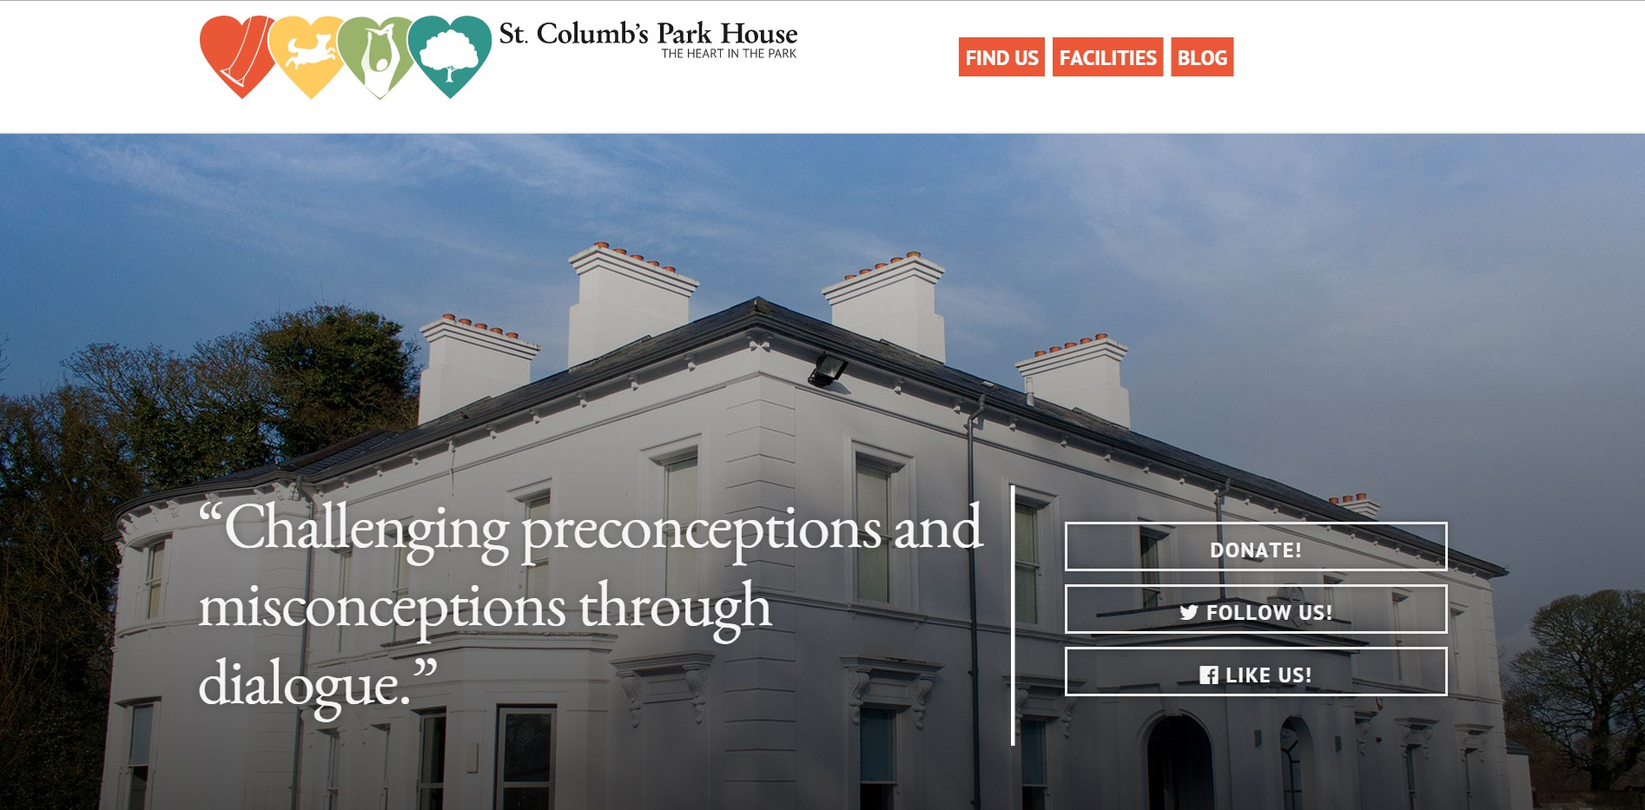
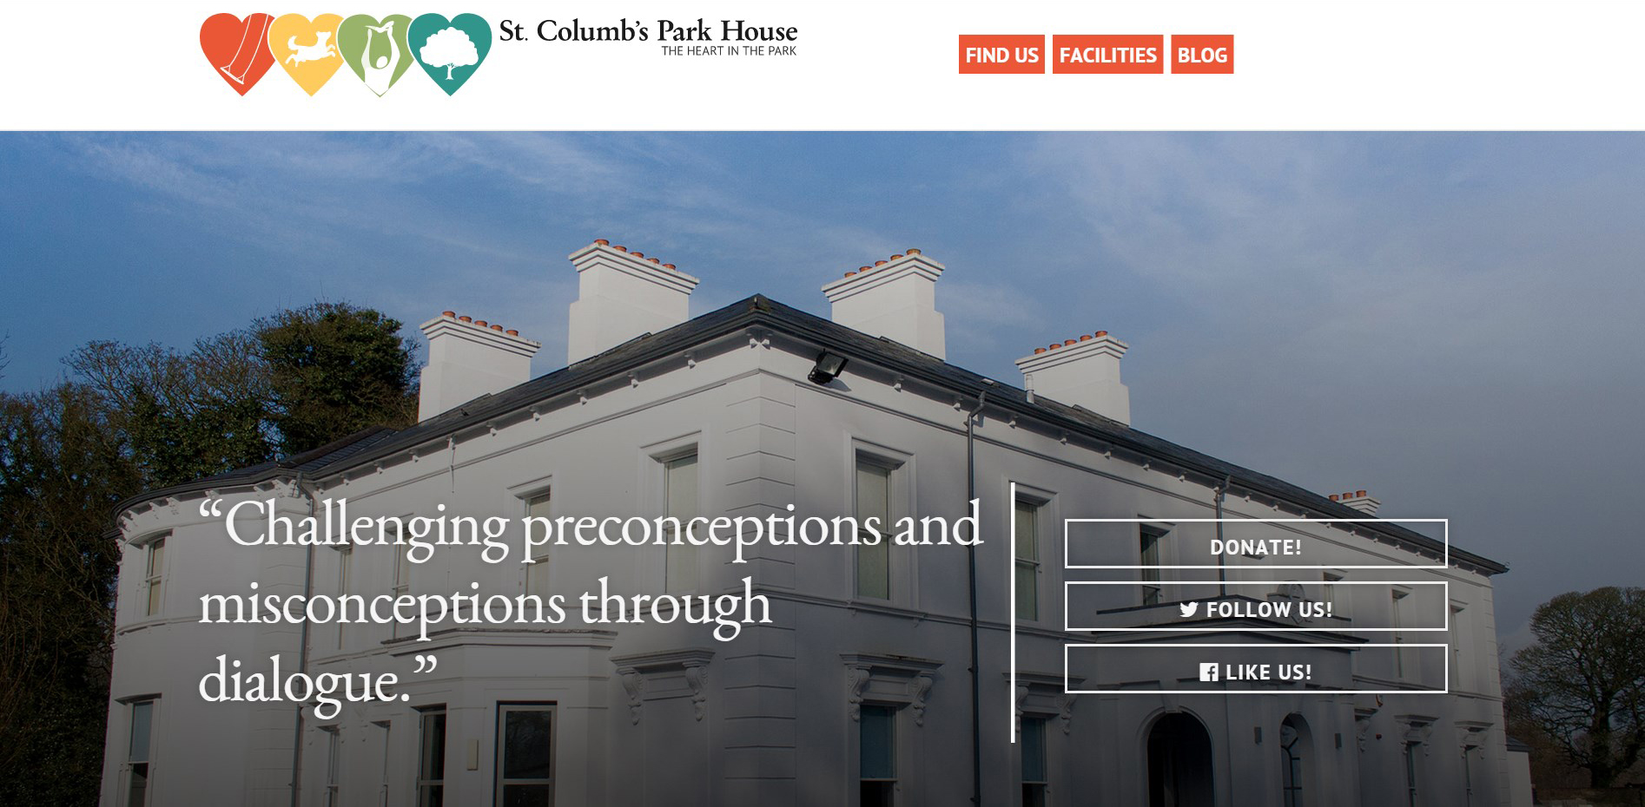
Site updated: 2015-07-10 17:27:44

diff --git a/index.html b/index.html
@@ -1,1 +1,1 @@
-<!DOCTYPE html><html lang="English"><head><meta name="viewport" content="width=device-width, initial-scale=1.0"><meta name="description" content=""><meta name="author" content="Ryan Park"><title>Digital Portfolio [ Ryan Park ]</title><link rel="stylesheet" href="/css/style.css"><link rel="icon" href="/img/favicon.png"><link rel="stylesheet" href="//maxcdn.bootstrapcdn.com/font-awesome/4.3.0/css/font-awesome.min.css"></head><body><div id="menu-outer"><div id="title"><h1 class="name">Ryan Park</h1><h2 class="sub">Front End Web Developer based in Coleraine, Northern Ireland.</h2></div><div id="nav" class="menu-inner"><a href="/">Home</a><a href="/archives">Archives</a></div></div><div id="content-outer"><div id="content-inner"><div id="details" class="container"><div class="four columns info"><i class="fa fa-user"></i><h1>About</h1><p>I am a recent graduate who specializes in bespoke solutions for front end web development, creating cutting-edge responsive experiences for a range of devices.</p></div><div class="four columns info"><i class="fa fa-certificate"></i><h1>Qualifications</h1><p>Graduated with first class honors in Interactive Media Arts, Adobe Certified Associate for a range of Adobe software, recipent of</p></div><div class="four columns info"><i class="fa fa-code"></i><h1>Skills</h1><p>HTML5, CSS3, Javascript, jQuery, git and tinkerer in node.js, php, and other backend technologies.</p></div></div><div id="recent-posts" class="row"><div class="recent-post-item four columns"><div id="post" style="background: url('img/Taste.jpg');"><div class="details"><a href="/2015/06/28/Taste/">Taste</a><time datetime="2015-06-28T07:19:17.000Z">2015-06-28</time></div></div></div><div class="recent-post-item four columns"><div id="post" style="background: url('img/St. Columbs Park House.jpg');"><div class="details"><a href="/2015/06/22/St-Columbs-Park-House-1/">St. Columbs Park House</a><time datetime="2015-06-22T06:06:38.000Z">2015-06-22</time></div></div></div><div class="recent-post-item four columns"><div id="post" style="background: url('img/Hello World.jpg');"><div class="details"><a href="/2015/06/22/hello-world/">Hello World</a><time datetime="2015-06-22T03:54:09.323Z">2015-06-22</time></div></div></div></div><div id="index-pages"></div></div></div></body></html>
+<!DOCTYPE html><html lang="English"><head><meta name="viewport" content="width=device-width, initial-scale=1.0"><meta name="description" content=""><meta name="author" content="Ryan Park"><title>Digital Portfolio [ Ryan Park ]</title><link rel="stylesheet" href="/css/style.css"><link rel="icon" href="/img/favicon.png"><link rel="stylesheet" href="//maxcdn.bootstrapcdn.com/font-awesome/4.3.0/css/font-awesome.min.css"></head><body><div id="menu-outer"><div id="title"><h1 class="name">Ryan Park</h1><h2 class="sub">Front End Web Developer based in Coleraine, Northern Ireland.</h2></div><div id="nav" class="menu-inner"><a href="/">Home</a><a href="/archives">Work</a><a href="/contact">Contact</a></div></div><div id="content-outer"><div id="content-inner"><div id="details" class="u-full-width"><div class="container"><div class="row"><div class="four columns info"><i class="fa fa-user"></i><h1>About</h1><p>I am a recent graduate who specializes in bespoke solutions for front end web development, creating cutting-edge responsive experiences for a range of devices.</p></div><div class="four columns info"><i class="fa fa-certificate"></i><h1>Qualifications</h1><p>Graduated with first class honors in Interactive Media Arts, Adobe Certified Associate for a range of Adobe software.</p></div><div class="four columns info"><i class="fa fa-code"></i><h1>Skills</h1><p>HTML5, CSS3, Javascript, jQuery, git and tinkerer in node.js, php, and other backend technologies.</p></div></div></div></div><div id="recent-posts" class="row container"><h1>Recent Work</h1><div class="u-full-width"><div class="recent-post-item four columns"><a href="/2015/06/28/Taste/" id="article" style="background: url('img/Taste.jpg');"><div class="details"><h5>Taste</h5><time datetime="2015-06-28T07:19:17.000Z">2015-06-28</time></div></a></div><div class="recent-post-item four columns"><a href="/2015/06/22/St-Columbs-Park-House-1/" id="article" style="background: url('img/St. Columbs Park House.jpg');"><div class="details"><h5>St. Columbs Park House</h5><time datetime="2015-06-22T06:06:38.000Z">2015-06-22</time></div></a></div><div class="recent-post-item four columns"><a href="/2015/06/22/hello-world/" id="article" style="background: url('img/Hello World.jpg');"><div class="details"><h5>Hello World</h5><time datetime="2015-06-22T03:54:09.323Z">2015-06-22</time></div></a></div></div></div><div class="container"><div class="row"><h1>Contact</h1></div><div class="row"><div class="six columns"><p>You can contact me using the form to the right, alternatively I'm available via social media </p></div><div class="six columns"><form action="//formspree.io/parky.fp@gmail.com" method="POST"><label>Name:</label><input type="text" name="name" placeholder="Your Name"><label>Email Address:</label><input type="email" name="_replyto" placeholder="Your Email"><label>Message:</label><textarea name="message" placeholder="Your Message" class="u-full-width"></textarea><input type="submit" value="Send"></form></div></div></div></div></div><div id="footer"><i class="fa fa-github"></i><i class="fa fa-twitter"></i><i class="fa fa-user"></i></div></body></html>

diff --git a/2015/06/22/hello-world/index.html b/2015/06/22/hello-world/index.html
@@ -1,4 +1,4 @@
-<!DOCTYPE html><html lang="English"><head><meta name="viewport" content="width=device-width, initial-scale=1.0"><meta name="description" content=""><meta name="author" content="Ryan Park"><title>Hello World [ Ryan Park ]</title><link rel="stylesheet" href="/css/style.css"><link rel="icon" href="/img/favicon.png"><link rel="stylesheet" href="//maxcdn.bootstrapcdn.com/font-awesome/4.3.0/css/font-awesome.min.css"></head><body><div id="menu-outer"><div id="title"><h1 class="name">Ryan Park</h1><h2 class="sub">Front End Web Developer based in Coleraine, Northern Ireland.</h2></div><div id="nav" class="menu-inner"><a href="/">Home</a><a href="/archives">Archives</a></div></div><div id="content-outer"><div id="content-inner"><article id="post"><h1>Hello World</h1><p>Welcome to <a href="http://hexo.io/" target="_blank" rel="external">Hexo</a>! This is your very first post. Check <a href="http://hexo.io/docs/" target="_blank" rel="external">documentation</a> for more info. If you get any problems when using Hexo, you can find the answer in <a href="http://hexo.io/docs/troubleshooting.html" target="_blank" rel="external">troubleshooting</a> or you can ask me on <a href="https://github.com/hexojs/hexo/issues" target="_blank" rel="external">GitHub</a>.</p>
+<!DOCTYPE html><html lang="English"><head><meta name="viewport" content="width=device-width, initial-scale=1.0"><meta name="description" content=""><meta name="author" content="Ryan Park"><title>Hello World [ Ryan Park ]</title><link rel="stylesheet" href="/css/style.css"><link rel="icon" href="/img/favicon.png"><link rel="stylesheet" href="//maxcdn.bootstrapcdn.com/font-awesome/4.3.0/css/font-awesome.min.css"></head><body><div id="menu-outer"><div id="title"><h1 class="name">Ryan Park</h1><h2 class="sub">Front End Web Developer based in Coleraine, Northern Ireland.</h2></div><div id="nav" class="menu-inner"><a href="/">Home</a><a href="/archives">Work</a><a href="/contact">Contact</a></div></div><div id="content-outer"><div id="content-inner"><div class="container"><article id="post"><h1>Hello World</h1><p>Welcome to <a href="http://hexo.io/" target="_blank" rel="external">Hexo</a>! This is your very first post. Check <a href="http://hexo.io/docs/" target="_blank" rel="external">documentation</a> for more info. If you get any problems when using Hexo, you can find the answer in <a href="http://hexo.io/docs/troubleshooting.html" target="_blank" rel="external">troubleshooting</a> or you can ask me on <a href="https://github.com/hexojs/hexo/issues" target="_blank" rel="external">GitHub</a>.</p>
 <h2 id="Quick_Start">Quick Start</h2><h3 id="Create_a_new_post">Create a new post</h3><figure class="highlight bash"><table><tr><td class="gutter"><pre><span class="line">1</span><br></pre></td><td class="code"><pre><span class="line">$ hexo new <span class="string">"My New Post"</span></span><br></pre></td></tr></table></figure>
 <p>More info: <a href="http://hexo.io/docs/writing.html" target="_blank" rel="external">Writing</a></p>
 <h3 id="Run_server">Run server</h3><figure class="highlight bash"><table><tr><td class="gutter"><pre><span class="line">1</span><br></pre></td><td class="code"><pre><span class="line">$ hexo server</span><br></pre></td></tr></table></figure>
@@ -7,4 +7,4 @@
 <p>More info: <a href="http://hexo.io/docs/generating.html" target="_blank" rel="external">Generating</a></p>
 <h3 id="Deploy_to_remote_sites">Deploy to remote sites</h3><figure class="highlight bash"><table><tr><td class="gutter"><pre><span class="line">1</span><br></pre></td><td class="code"><pre><span class="line">$ hexo deploy</span><br></pre></td></tr></table></figure>
 <p>More info: <a href="http://hexo.io/docs/deployment.html" target="_blank" rel="external">Deployment</a></p>
-</article><nav id="pagination"><a href="/2015/06/22/St-Columbs-Park-House-1/" class="prev">&larr; Prev</a></nav></div></div></body></html>
+</article><nav id="pagination"><a href="/2015/06/22/St-Columbs-Park-House-1/" class="prev">&larr; Prev</a></nav></div></div></div><div id="footer"><i class="fa fa-github"></i><i class="fa fa-twitter"></i><i class="fa fa-user"></i></div></body></html>

diff --git a/css/style.css b/css/style.css
@@ -161,8 +161,6 @@ a {
   color: #333;
   text-transform: uppercase;
   text-decoration: none;
-  border: 2px solid;
-  padding: 5px 10px 5px 10px;
   font-weight: 700; }
   a:hover {
     color: #737373; }
@@ -188,30 +186,27 @@ a {
 
 input[type="submit"], input[type="reset"], input[type="button"] {
   display: inline-block;
-  height: 38px;
-  padding: 0 30px;
   color: #555555;
   text-align: center;
-  font-size: 11px;
-  font-weight: 600;
-  line-height: 38px;
-  letter-spacing: .1rem;
   text-transform: uppercase;
   text-decoration: none;
   white-space: nowrap;
   background-color: transparent;
-  border-radius: 4px;
-  border: 1px solid #bbb;
   cursor: pointer;
-  box-sizing: border-box; }
+  box-sizing: border-box;
+  font-size: 18px;
+  font-family: 'Open Sans', sans-serif;
+  font-weight: 700;
+  border: 2px solid;
+  padding: 5px 10px 5px 10px; }
 
 .button:hover, button:hover {
-  color: #333;
+  color: #888888;
   border-color: #888888;
   outline: 0; }
 
 input[type="submit"]:hover, input[type="reset"]:hover, input[type="button"]:hover {
-  color: #333;
+  color: #888888;
   border-color: #888888;
   outline: 0; }
 
@@ -368,7 +363,8 @@ pre, blockquote, dl, figure, table, p, ul, ol, form {
 
 .u-full-width {
   width: 100%;
-  box-sizing: border-box; }
+  box-sizing: border-box;
+  margin-bottom: 30px; }
 
 .u-max-full-width {
   max-width: 100%;
@@ -755,7 +751,19 @@ td, th {
   padding: 0.3em; }
   .menu-inner a {
     display: inline-block;
-    margin: 0.1em 0.5em 0 0.3em; }
+    margin: 0.1em 0.5em 0 0.3em;
+    border: 2px solid;
+    padding: 5px 10px 5px 10px; }
+
+#details {
+  display: flex;
+  align-items: center;
+  color: white;
+  background-image: url('../img/hero.jpg');
+  background-size: cover; }
+  @media (min-width: 550px) {
+    #details {
+      height: 80vh; } }
 
 .info i {
   font-size: 15rem;
@@ -766,10 +774,11 @@ td, th {
   text-transform: uppercase; }
 
 #recent-posts .recent-post-item {
-  margin-bottom: 0.3em; }
+  margin-bottom: 20px; }
 
-#post {
+#article {
   height: 33vh;
+  border-radius: 3px;
   display: flex;
   overflow: hidden;
   background-size: cover !important;
@@ -779,22 +788,28 @@ td, th {
   z-index: 1;
   text-shadow: 0px 0px 3px black;
   color: #e6e6e6; }
-  #post:hover .details {
+  #article h5 {
+    display: inline;
+    font-weight: 700;
+    font-size: 18px;
+    border: 2px solid;
+    padding: 5px 10px 5px 10px; }
+  #article:hover .details {
     background-color: transparent; }
-  #post time {
+  #article time {
     display: block;
     margin-top: 10px; }
-  #post a {
+  #article a {
     color: #e6e6e6; }
-    #post a:hover {
+    #article a:hover {
       color: white; }
-  #post .details {
+  #article .details {
     padding: 20px 0 20px 0;
     align-self: center;
     width: 100%;
     text-align: center;
     background-color: rgba(0, 0, 0, 0.5); }
-  #post:hover:before {
+  #article:hover:before {
     -webkit-filter: blur(3px) !important;
     -ms-filter: blur(3px) !important;
     -moz-filter: blur(3px) !important;
@@ -802,7 +817,7 @@ td, th {
     filter: progid:DXImageTransform.Microsoft.Blur(PixelRadius='3');
     transform: scale(1.2, 1.2);
     box-shadow: inset 0 0 0 1000px rgba(0, 0, 0, 0.35); }
-  #post:before {
+  #article:before {
     position: absolute;
     pointer-events: none;
     z-index: -1;
@@ -820,5 +835,22 @@ td, th {
     filter: progid:DXImageTransform.Microsoft.Blur(PixelRadius='0');
     transition: all 0.1s ease; }
 
+label {
+  display: block; }
+  label:nth-child(n+2) {
+    margin-top: 25px; }
+
+#footer {
+  background-color: #333;
+  height: 50px;
+  color: #e1e1e1;
+  text-align: center;
+  line-height: 50px;
+  bottom: 0;
+  margin-top: 2rem; }
+  #footer i {
+    margin: 0 3px 0 3px;
+    font-size: 3rem; }
+
 .row {
-  padding: 0 10px 0 10px; }
+  padding: 0 20px 0 20px; }

diff --git a/archives/2015/06/index.html b/archives/2015/06/index.html
@@ -1,1 +1,1 @@
-<!DOCTYPE html><html lang="English"><head><meta name="viewport" content="width=device-width, initial-scale=1.0"><meta name="description" content=""><meta name="author" content="Ryan Park"><title>Archives: 6/2015: 2015 [ Ryan Park ]</title><link rel="stylesheet" href="/css/style.css"><link rel="icon" href="/img/favicon.png"><link rel="stylesheet" href="//maxcdn.bootstrapcdn.com/font-awesome/4.3.0/css/font-awesome.min.css"></head><body><div id="menu-outer"><div id="title"><h1 class="name">Ryan Park</h1><h2 class="sub">Front End Web Developer based in Coleraine, Northern Ireland.</h2></div><div id="nav" class="menu-inner"><a href="/">Home</a><a href="/archives">Archives</a></div></div><div id="content-outer"><div id="content-inner"><div class="archive"><h1>6/2015</h1><div class="archive-list-item"><a href="/2015/06/28/Taste/">Taste</a><time datetime="2015-06-28T07:19:17.000Z">2015-06-28</time></div><div class="archive-list-item"><a href="/2015/06/22/St-Columbs-Park-House-1/">St. Columbs Park House</a><time datetime="2015-06-22T06:06:38.000Z">2015-06-22</time></div><div class="archive-list-item"><a href="/2015/06/22/hello-world/">Hello World</a><time datetime="2015-06-22T03:54:09.323Z">2015-06-22</time></div><nav id="pagination"><span class="page-number">Page 1 of 1</span></nav></div></div></div></body></html>
+<!DOCTYPE html><html lang="English"><head><meta name="viewport" content="width=device-width, initial-scale=1.0"><meta name="description" content=""><meta name="author" content="Ryan Park"><title>Archives: 6/2015: 2015 [ Ryan Park ]</title><link rel="stylesheet" href="/css/style.css"><link rel="icon" href="/img/favicon.png"><link rel="stylesheet" href="//maxcdn.bootstrapcdn.com/font-awesome/4.3.0/css/font-awesome.min.css"></head><body><div id="menu-outer"><div id="title"><h1 class="name">Ryan Park</h1><h2 class="sub">Front End Web Developer based in Coleraine, Northern Ireland.</h2></div><div id="nav" class="menu-inner"><a href="/">Home</a><a href="/archives">Work</a><a href="/contact">Contact</a></div></div><div id="content-outer"><div id="content-inner"><div class="archive container"><h1>6/2015</h1><div class="archive-list-item"><a href="/2015/06/28/Taste/">Taste</a><time datetime="2015-06-28T07:19:17.000Z">2015-06-28</time></div><div class="archive-list-item"><a href="/2015/06/22/St-Columbs-Park-House-1/">St. Columbs Park House</a><time datetime="2015-06-22T06:06:38.000Z">2015-06-22</time></div><div class="archive-list-item"><a href="/2015/06/22/hello-world/">Hello World</a><time datetime="2015-06-22T03:54:09.323Z">2015-06-22</time></div><nav id="pagination"><span class="page-number">Page 1 of 1</span></nav></div></div></div><div id="footer"><i class="fa fa-github"></i><i class="fa fa-twitter"></i><i class="fa fa-user"></i></div></body></html>

diff --git a/archives/2015/index.html b/archives/2015/index.html
@@ -1,1 +1,1 @@
-<!DOCTYPE html><html lang="English"><head><meta name="viewport" content="width=device-width, initial-scale=1.0"><meta name="description" content=""><meta name="author" content="Ryan Park"><title>Archives: 2015 [ Ryan Park ]</title><link rel="stylesheet" href="/css/style.css"><link rel="icon" href="/img/favicon.png"><link rel="stylesheet" href="//maxcdn.bootstrapcdn.com/font-awesome/4.3.0/css/font-awesome.min.css"></head><body><div id="menu-outer"><div id="title"><h1 class="name">Ryan Park</h1><h2 class="sub">Front End Web Developer based in Coleraine, Northern Ireland.</h2></div><div id="nav" class="menu-inner"><a href="/">Home</a><a href="/archives">Archives</a></div></div><div id="content-outer"><div id="content-inner"><div class="archive"><h1>undefined/2015</h1><div class="archive-list-item"><a href="/2015/06/28/Taste/">Taste</a><time datetime="2015-06-28T07:19:17.000Z">2015-06-28</time></div><div class="archive-list-item"><a href="/2015/06/22/St-Columbs-Park-House-1/">St. Columbs Park House</a><time datetime="2015-06-22T06:06:38.000Z">2015-06-22</time></div><div class="archive-list-item"><a href="/2015/06/22/hello-world/">Hello World</a><time datetime="2015-06-22T03:54:09.323Z">2015-06-22</time></div><nav id="pagination"><span class="page-number">Page 1 of 1</span></nav></div></div></div></body></html>
+<!DOCTYPE html><html lang="English"><head><meta name="viewport" content="width=device-width, initial-scale=1.0"><meta name="description" content=""><meta name="author" content="Ryan Park"><title>Archives: 2015 [ Ryan Park ]</title><link rel="stylesheet" href="/css/style.css"><link rel="icon" href="/img/favicon.png"><link rel="stylesheet" href="//maxcdn.bootstrapcdn.com/font-awesome/4.3.0/css/font-awesome.min.css"></head><body><div id="menu-outer"><div id="title"><h1 class="name">Ryan Park</h1><h2 class="sub">Front End Web Developer based in Coleraine, Northern Ireland.</h2></div><div id="nav" class="menu-inner"><a href="/">Home</a><a href="/archives">Work</a><a href="/contact">Contact</a></div></div><div id="content-outer"><div id="content-inner"><div class="archive container"><h1>undefined/2015</h1><div class="archive-list-item"><a href="/2015/06/28/Taste/">Taste</a><time datetime="2015-06-28T07:19:17.000Z">2015-06-28</time></div><div class="archive-list-item"><a href="/2015/06/22/St-Columbs-Park-House-1/">St. Columbs Park House</a><time datetime="2015-06-22T06:06:38.000Z">2015-06-22</time></div><div class="archive-list-item"><a href="/2015/06/22/hello-world/">Hello World</a><time datetime="2015-06-22T03:54:09.323Z">2015-06-22</time></div><nav id="pagination"><span class="page-number">Page 1 of 1</span></nav></div></div></div><div id="footer"><i class="fa fa-github"></i><i class="fa fa-twitter"></i><i class="fa fa-user"></i></div></body></html>

diff --git a/archives/index.html b/archives/index.html
@@ -1,1 +1,1 @@
-<!DOCTYPE html><html lang="English"><head><meta name="viewport" content="width=device-width, initial-scale=1.0"><meta name="description" content=""><meta name="author" content="Ryan Park"><title>Archives [ Ryan Park ]</title><link rel="stylesheet" href="/css/style.css"><link rel="icon" href="/img/favicon.png"><link rel="stylesheet" href="//maxcdn.bootstrapcdn.com/font-awesome/4.3.0/css/font-awesome.min.css"></head><body><div id="menu-outer"><div id="title"><h1 class="name">Ryan Park</h1><h2 class="sub">Front End Web Developer based in Coleraine, Northern Ireland.</h2></div><div id="nav" class="menu-inner"><a href="/">Home</a><a href="/archives">Archives</a></div></div><div id="content-outer"><div id="content-inner"><div class="archive"><h1>Archives</h1><p>The feed is available via&nbsp;<a href="/atom.xml">atom</a><span>.</span></p><br><aside><h2>Categories</h2><p>None.</p></aside><br><aside><h2>Tags</h2><p>None.</p></aside><br><aside><h2>Archives</h2><ul class="archive-list"><li class="archive-list-item"><a class="archive-list-link" href="/archives/2015/06/">June 2015</a></li></ul></aside><br><nav id="pagination"><span class="page-number">Page 1 of 1</span></nav></div></div></div></body></html>
+<!DOCTYPE html><html lang="English"><head><meta name="viewport" content="width=device-width, initial-scale=1.0"><meta name="description" content=""><meta name="author" content="Ryan Park"><title>Archives [ Ryan Park ]</title><link rel="stylesheet" href="/css/style.css"><link rel="icon" href="/img/favicon.png"><link rel="stylesheet" href="//maxcdn.bootstrapcdn.com/font-awesome/4.3.0/css/font-awesome.min.css"></head><body><div id="menu-outer"><div id="title"><h1 class="name">Ryan Park</h1><h2 class="sub">Front End Web Developer based in Coleraine, Northern Ireland.</h2></div><div id="nav" class="menu-inner"><a href="/">Home</a><a href="/archives">Work</a><a href="/contact">Contact</a></div></div><div id="content-outer"><div id="content-inner"><div class="archive container"><h1>Archives</h1><p>The feed is available via&nbsp;<a href="/atom.xml">atom</a><span>.</span></p><br><aside><h2>Categories</h2><p>None.</p></aside><br><aside><h2>Tags</h2><p>None.</p></aside><br><aside><h2>Archives</h2><ul class="archive-list"><li class="archive-list-item"><a class="archive-list-link" href="/archives/2015/06/">June 2015</a></li></ul></aside><br><nav id="pagination"><span class="page-number">Page 1 of 1</span></nav></div></div></div><div id="footer"><i class="fa fa-github"></i><i class="fa fa-twitter"></i><i class="fa fa-user"></i></div></body></html>

diff --git a/2015/06/22/St-Columbs-Park-House-1/index.html b/2015/06/22/St-Columbs-Park-House-1/index.html
@@ -1,1 +1,1 @@
-<!DOCTYPE html><html lang="English"><head><meta name="viewport" content="width=device-width, initial-scale=1.0"><meta name="description" content=""><meta name="author" content="Ryan Park"><title>St. Columbs Park House [ Ryan Park ]</title><link rel="stylesheet" href="/css/style.css"><link rel="icon" href="/img/favicon.png"><link rel="stylesheet" href="//maxcdn.bootstrapcdn.com/font-awesome/4.3.0/css/font-awesome.min.css"></head><body><div id="menu-outer"><div id="title"><h1 class="name">Ryan Park</h1><h2 class="sub">Front End Web Developer based in Coleraine, Northern Ireland.</h2></div><div id="nav" class="menu-inner"><a href="/">Home</a><a href="/archives">Archives</a></div></div><div id="content-outer"><div id="content-inner"><article id="post"><h1>St. Columbs Park House</h1></article><nav id="pagination"><a href="/2015/06/28/Taste/" class="prev">&larr; Prev</a><a href="/2015/06/22/hello-world/" class="next">Next &rarr;</a></nav></div></div></body></html>
+<!DOCTYPE html><html lang="English"><head><meta name="viewport" content="width=device-width, initial-scale=1.0"><meta name="description" content=""><meta name="author" content="Ryan Park"><title>St. Columbs Park House [ Ryan Park ]</title><link rel="stylesheet" href="/css/style.css"><link rel="icon" href="/img/favicon.png"><link rel="stylesheet" href="//maxcdn.bootstrapcdn.com/font-awesome/4.3.0/css/font-awesome.min.css"></head><body><div id="menu-outer"><div id="title"><h1 class="name">Ryan Park</h1><h2 class="sub">Front End Web Developer based in Coleraine, Northern Ireland.</h2></div><div id="nav" class="menu-inner"><a href="/">Home</a><a href="/archives">Work</a><a href="/contact">Contact</a></div></div><div id="content-outer"><div id="content-inner"><div class="container"><article id="post"><h1>St. Columbs Park House</h1></article><nav id="pagination"><a href="/2015/06/28/Taste/" class="prev">&larr; Prev</a><a href="/2015/06/22/hello-world/" class="next">Next &rarr;</a></nav></div></div></div><div id="footer"><i class="fa fa-github"></i><i class="fa fa-twitter"></i><i class="fa fa-user"></i></div></body></html>

diff --git a/2015/06/28/Taste/index.html b/2015/06/28/Taste/index.html
@@ -1,1 +1,1 @@
-<!DOCTYPE html><html lang="English"><head><meta name="viewport" content="width=device-width, initial-scale=1.0"><meta name="description" content=""><meta name="author" content="Ryan Park"><title>Taste [ Ryan Park ]</title><link rel="stylesheet" href="/css/style.css"><link rel="icon" href="/img/favicon.png"><link rel="stylesheet" href="//maxcdn.bootstrapcdn.com/font-awesome/4.3.0/css/font-awesome.min.css"></head><body><div id="menu-outer"><div id="title"><h1 class="name">Ryan Park</h1><h2 class="sub">Front End Web Developer based in Coleraine, Northern Ireland.</h2></div><div id="nav" class="menu-inner"><a href="/">Home</a><a href="/archives">Archives</a></div></div><div id="content-outer"><div id="content-inner"><article id="post"><h1>Taste</h1></article><nav id="pagination"><a href="/2015/06/22/St-Columbs-Park-House-1/" class="next">Next &rarr;</a></nav></div></div></body></html>
+<!DOCTYPE html><html lang="English"><head><meta name="viewport" content="width=device-width, initial-scale=1.0"><meta name="description" content=""><meta name="author" content="Ryan Park"><title>Taste [ Ryan Park ]</title><link rel="stylesheet" href="/css/style.css"><link rel="icon" href="/img/favicon.png"><link rel="stylesheet" href="//maxcdn.bootstrapcdn.com/font-awesome/4.3.0/css/font-awesome.min.css"></head><body><div id="menu-outer"><div id="title"><h1 class="name">Ryan Park</h1><h2 class="sub">Front End Web Developer based in Coleraine, Northern Ireland.</h2></div><div id="nav" class="menu-inner"><a href="/">Home</a><a href="/archives">Work</a><a href="/contact">Contact</a></div></div><div id="content-outer"><div id="content-inner"><div class="container"><article id="post"><h1>Taste</h1></article><nav id="pagination"><a href="/2015/06/22/St-Columbs-Park-House-1/" class="next">Next &rarr;</a></nav></div></div></div><div id="footer"><i class="fa fa-github"></i><i class="fa fa-twitter"></i><i class="fa fa-user"></i></div></body></html>
